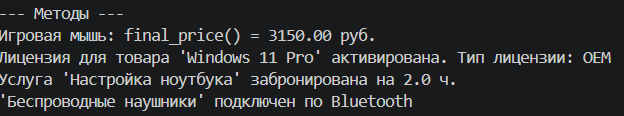
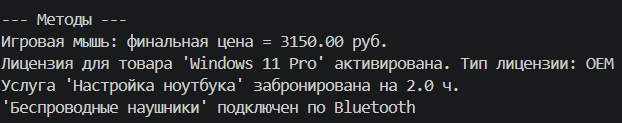
added README

diff --git a/src/lab03/demo.py b/src/lab03/demo.py
@@ -60,7 +60,7 @@ for item in catalog:
 
 # Сценарий 2. Методы базового и дочерних классов
 print_title('Методы')
-print(f'{mouse.name}: final_price() = {mouse.final_price():.2f} руб.')
+print(f'{mouse.name}: финальная цена = {mouse.final_price():.2f} руб.')
 print(windows.activate_license())
 print(repair.book_service())
 print(headphones.connect())
